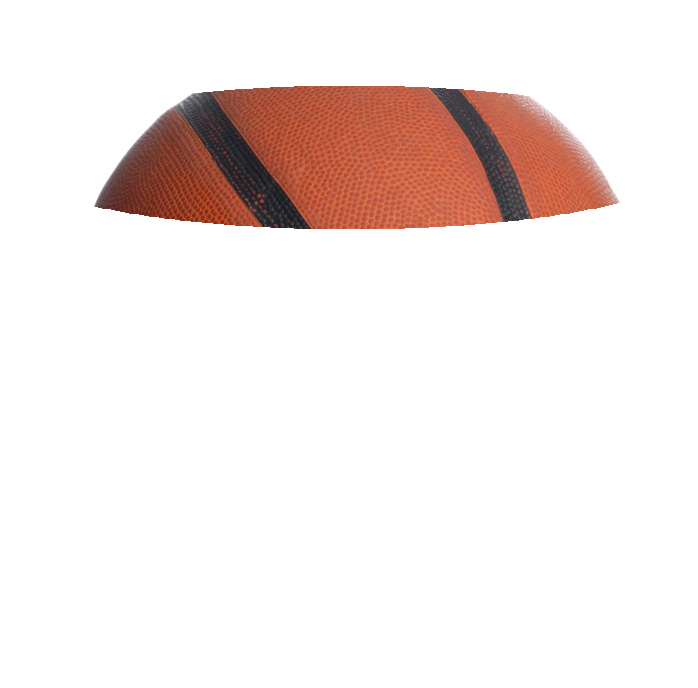
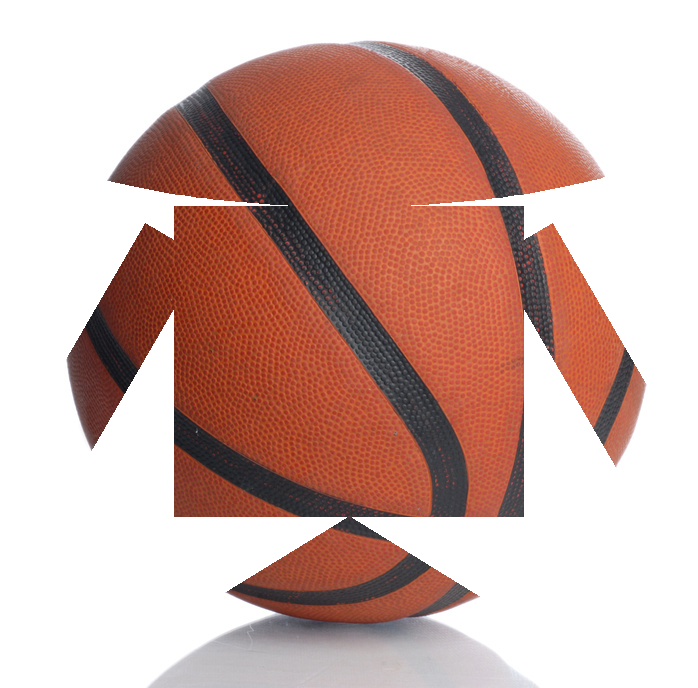
Succesfully created robot mask

diff --git a/mask.py b/mask.py
@@ -57,18 +57,34 @@ def something_one_image(original_image, percent_of_side=.3):
 
     # start with transparent mask
     width,height = original_image.size
-    rounded_mask = PIL.Image.new('RGBA', (width, height), (127, 0, 127, 0))
+    robot_mask = PIL.Image.new('RGBA', (width, height), (127, 0, 127, 0))
     drawing_layer = PIL.ImageDraw.Draw(rounded_mask)
 
-    # Draw four filled circles of opaqueness
-    drawing_layer.ellipse((0, height/8, width, height/3), fill=(0, 127, 127, 255))  #makes the circle at the
+    # draws the ellipse for the head
+    drawing_layer.ellipse((0, int(height * 0.03), width, int(height * 0.3)), fill=(0, 127, 127, 255))
+
+    #draws the rectangle for the body
+    drawing_layer.rectangle((int(width * 0.25), int(height * 0.3), int(width * 0.75), int(height * 0.75)),
+                            fill=(0, 127, 127, 255))
+
+    #draws the line for left arm
+    drawing_layer.line((int(width * 0.25), int(height * 0.35), int(width * 0.05), int(height * 0.70)),
+                       fill=(0, 127, 127, 255), width= int(min(width, height) * 0.1))
+
+    #draws the line for the right arm
+    drawing_layer.line((int(width * 0.75), int(height * 0.35), int(width * 0.95), int(height * 0.70)),
+                       fill=(0, 127, 127, 255), width=int(min(width, height) * 0.1))
+
+    #draws the triangle for the base
+    drawing_layer.polygon((int(width * 0.5), int(height * 0.75), int(width * 0.1), height, int(width * 0.9), height),
+                          fill=(0, 127, 127, 255))
 
     # Uncomment the following line to show the mask
     #plt.imshow(rounded_mask)
 
     # Make the new image, starting with all transparent
     result = PIL.Image.new('RGBA', original_image.size, (0, 0, 0, 0))
-    result.paste(original_image, (0, 0), mask=rounded_mask)
+    result.paste(original_image, (0, 0), mask=robot_mask)
     return result
 
 def get_images(directory=None):
